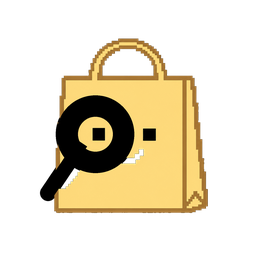
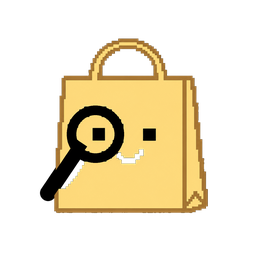
Reduce scanning ring boldness, fix shopping list re-expanding after review
Ring thickness: the v2 ring-boldening (85/190 radius, ~2.5x the source art's own ~41px thickness) read as over-bolded once seen live against the reference image. Compared thickness options side by side at the actual ~64px display size rather than guessing - the raw source thickness already read reasonably clearly on this v2 art, since the added handle gives it context - so dialed back to inner/outer 93/140 (~47px), barely more than the source's own ~41px. Shopping list collapse: confirming or dismissing a review was force re-expanding the list, caused by isOpen deriving as manualOpen ?? !hasPendingReview, which evaluated to true once hasPendingReview flipped back to false regardless of anything else. Replaced with a persistent isOpen state only forced closed on a new review becoming pending; resolving never touches it. The expand toggle now stays visible whenever the list is collapsed, not only during a pending review, and Save trip resets to expanded so a fresh draft doesn't inherit a stale collapsed state.

Changed region(s): [[0.2188, 0.3438, 0.5312, 0.6875]]

diff --git a/e2e/shopping-list-collapse.spec.ts b/e2e/shopping-list-collapse.spec.ts
@@ -70,7 +70,7 @@ test('the collapsed shopping list can be manually expanded while a review is sti
   await expect(page.getByTestId('add-item-input')).toBeHidden()
 })
 
-test('confirming the review returns the shopping list to visible by default', async ({ page }) => {
+test('confirming the review keeps the shopping list collapsed, not re-expanded', async ({ page }) => {
   await page.goto('/')
   await captureAndProcess(page)
   await expect(page.getByTestId('add-item-input')).toBeHidden()
@@ -78,12 +78,17 @@ test('confirming the review returns the shopping list to visible by default', as
   await page.getByTestId('receipt-review-confirm').click()
   await expect(page.getByTestId('receipt-review-panel')).toHaveCount(0)
 
-  await expect(page.getByTestId('shopping-list-toggle')).toHaveCount(0)
+  // Still collapsed — the toggle affordance stays around specifically so
+  // the user can expand it themselves, which is the only thing that should.
+  await expect(page.getByTestId('shopping-list-toggle')).toHaveText('Show shopping list')
+  await expect(page.getByTestId('add-item-input')).toBeHidden()
+  await expect(page.getByTestId('shopping-list-items')).toBeHidden()
+
+  await page.getByTestId('shopping-list-toggle').click()
   await expect(page.getByTestId('add-item-input')).toBeVisible()
-  await expect(page.getByTestId('shopping-list-items')).toBeVisible()
 })
 
-test('dismissing the review (without confirming) also returns the shopping list to visible', async ({ page }) => {
+test('dismissing the review (without confirming) also keeps the shopping list collapsed', async ({ page }) => {
   await page.goto('/')
   await captureAndProcess(page)
   await expect(page.getByTestId('add-item-input')).toBeHidden()
@@ -91,7 +96,19 @@ test('dismissing the review (without confirming) also returns the shopping list 
   await page.getByTestId('receipt-review-dismiss').click()
   await expect(page.getByTestId('receipt-review-panel')).toHaveCount(0)
 
-  await expect(page.getByTestId('shopping-list-toggle')).toHaveCount(0)
+  await expect(page.getByTestId('shopping-list-toggle')).toHaveText('Show shopping list')
+  await expect(page.getByTestId('add-item-input')).toBeHidden()
+})
+
+test('a review resolving does not force-collapse a list the user had manually expanded', async ({ page }) => {
+  await page.goto('/')
+  await captureAndProcess(page)
+
+  await page.getByTestId('shopping-list-toggle').click()
+  await expect(page.getByTestId('add-item-input')).toBeVisible()
+
+  await page.getByTestId('receipt-review-confirm').click()
+  await expect(page.getByTestId('receipt-review-panel')).toHaveCount(0)
   await expect(page.getByTestId('add-item-input')).toBeVisible()
 })
 
@@ -101,7 +118,8 @@ test('a fresh receipt review after a previous one starts collapsed again, ignori
   await page.goto('/')
   await captureAndProcess(page)
 
-  // Manually expand, then confirm — list becomes visible-by-default again.
+  // Manually expand, then confirm — stays expanded (the user's own choice
+  // is respected across the review resolving).
   await page.getByTestId('shopping-list-toggle').click()
   await expect(page.getByTestId('add-item-input')).toBeVisible()
   await page.getByTestId('receipt-review-confirm').click()
@@ -113,4 +131,19 @@ test('a fresh receipt review after a previous one starts collapsed again, ignori
   await captureAndProcess(page)
   await expect(page.getByTestId('shopping-list-toggle')).toHaveText('Show shopping list')
   await expect(page.getByTestId('add-item-input')).toBeHidden()
+})
+
+test('saving the trip starts the fresh draft uncollapsed, not inheriting the finished trip\'s collapsed state', async ({
+  page,
+}) => {
+  await page.goto('/')
+  await captureAndProcess(page)
+
+  // Leave it collapsed (don't manually expand) through to Save trip.
+  await page.getByTestId('receipt-review-confirm').click()
+  await expect(page.getByTestId('shopping-list-toggle')).toHaveText('Show shopping list')
+
+  await page.getByTestId('save-trip-button').click()
+  await expect(page.getByTestId('shopping-list-toggle')).toHaveCount(0)
+  await expect(page.getByTestId('add-item-input')).toBeVisible()
 })

diff --git a/src/features/shopping-list/ShoppingListPage.tsx b/src/features/shopping-list/ShoppingListPage.tsx
@@ -1,4 +1,4 @@
-import { useEffect, useState, type FormEvent, type ReactNode } from 'react'
+import { useEffect, useRef, useState, type FormEvent, type ReactNode } from 'react'
 import { usePendingReceipt } from '../receipt-review/usePendingReceipt'
 import { formatDate } from '../../lib/formatDate'
 import { cardStyle, mutedTextStyle, pageStyle, primaryButtonStyle } from '../../lib/ui'
@@ -12,16 +12,34 @@ export function ShoppingListPage() {
   // button need to both be visible without scrolling past the full item
   // list — so the list (not the header/date/Save trip button, which stay
   // put) collapses by default, same idea as the DB Debug Panel's
-  // <details>. Any manual toggle is deliberately forgotten across a
-  // pending-review transition in either direction, so the next receipt
-  // always starts collapsed again rather than inheriting a stale choice.
+  // <details>. Once the review resolves (confirmed or dismissed), the
+  // collapsed/open state is left exactly as it was — it does not force
+  // back open — so a still-collapsed list stays collapsed until the user
+  // expands it themselves via the toggle. Only a *new* pending review
+  // (the false -> true rising edge) forces a fresh collapse, deliberately
+  // discarding whatever was left over from the previous one.
   const pendingReceipt = usePendingReceipt()
   const hasPendingReview = !!pendingReceipt
-  const [manualOpen, setManualOpen] = useState<boolean | null>(null)
+  const [isOpen, setIsOpen] = useState(true)
+  const wasPendingReview = useRef(hasPendingReview)
   useEffect(() => {
-    setManualOpen(null)
+    if (!wasPendingReview.current && hasPendingReview) setIsOpen(false)
+    wasPendingReview.current = hasPendingReview
   }, [hasPendingReview])
-  const isOpen = manualOpen ?? !hasPendingReview
+  // Saving the trip starts a fresh empty draft — that new trip has no
+  // history of its own, so it shouldn't inherit a collapsed state left
+  // over from whatever the previous trip's review was doing.
+  const tripId = trip?.id
+  const lastTripId = useRef(tripId)
+  useEffect(() => {
+    if (lastTripId.current === tripId) return
+    lastTripId.current = tripId
+    setIsOpen(true)
+  }, [tripId])
+  // The collapse affordance itself only needs to exist while there's an
+  // active review, or while a past one left the list collapsed — a fresh
+  // trip that's never had a review shows the plain, always-visible list.
+  const showCollapsible = hasPendingReview || !isOpen
 
   const handleSubmit = async (event: FormEvent) => {
     event.preventDefault()
@@ -98,11 +116,11 @@ export function ShoppingListPage() {
         {trip ? formatDate(trip.date) : 'Loading trip…'}
       </p>
 
-      {hasPendingReview ? (
+      {showCollapsible ? (
         <details
           data-testid="shopping-list-collapsible"
           open={isOpen}
-          onToggle={(e) => setManualOpen(e.currentTarget.open)}
+          onToggle={(e) => setIsOpen(e.currentTarget.open)}
           style={{ marginTop: '0.5rem' }}
         >
           <summary data-testid="shopping-list-toggle" style={{ ...mutedTextStyle, fontSize: '0.85rem' }}>

diff --git a/CLAUDE.md b/CLAUDE.md
@@ -399,6 +399,40 @@ model.
     correction toward idle's fill (this source image's own fill color
     again didn't match idle/happy out of the box — expected at this point,
     since each pose is still an independently-generated image).
+- **Scanning ring thickness dialed back + shopping list no longer
+  re-expands after a review resolves**: done and verified in production.
+  - The v2 ring-boldening (inner/outer radius 85/190, ~2.5x the source's
+    own ~41px thickness) read as over-bolded/blobby compared to the
+    reference art once seen live. Rendered several thickness options side
+    by side at the actual ~64px display size (including the raw,
+    unboldened source thickness) to compare rather than guessing — the
+    unboldened ring already read reasonably clearly on this v2 image
+    (unlike the v1 ring-only art, the added handle gives it context), so
+    only a small bump was kept: inner/outer 93/140 (~47px thick, barely
+    more than the source's own ~41px) instead of the previous 85/190.
+  - Separately, confirming or dismissing a receipt review was force
+    re-expanding the shopping list even if it had been left collapsed —
+    caused by `ShoppingListPage`'s old collapse logic deriving `isOpen` as
+    `manualOpen ?? !hasPendingReview`: once `hasPendingReview` flipped back
+    to `false` on resolve, that fallback expression itself evaluated to
+    `true` regardless of anything else, no matter what `manualOpen` was
+    reset to. Replaced with a single persistent `isOpen` state that only
+    gets forced `false` on the *rising* edge of `hasPendingReview` (a new
+    review becoming pending) — resolving a review no longer touches it at
+    all, so a still-collapsed list stays collapsed until the user expands
+    it via the toggle themselves. The toggle affordance itself now also
+    stays visible whenever the list is currently collapsed (not only while
+    a review is actively pending), since otherwise there'd be no way to
+    manually reopen a list left collapsed after the review closed.
+  - Also added: saving the trip (a new active tripId) now resets this
+    state back to expanded — a fresh empty draft has no review history of
+    its own, so it shouldn't inherit whatever collapsed state the just-
+    finished trip's review left behind.
+  - `e2e/shopping-list-collapse.spec.ts` updated: the two tests
+    encoding the old "always re-expands on resolve" behavior now assert
+    the opposite (stays collapsed, toggle still present); added tests for
+    a manually-expanded list staying expanded through a resolve, and for
+    Save trip resetting a stale collapsed state on the new draft.
 
 - **DB Debug Panel "Reset all data"** leaves 1-2 phantom trips behind after
   reload instead of zero. Not yet fixed.
